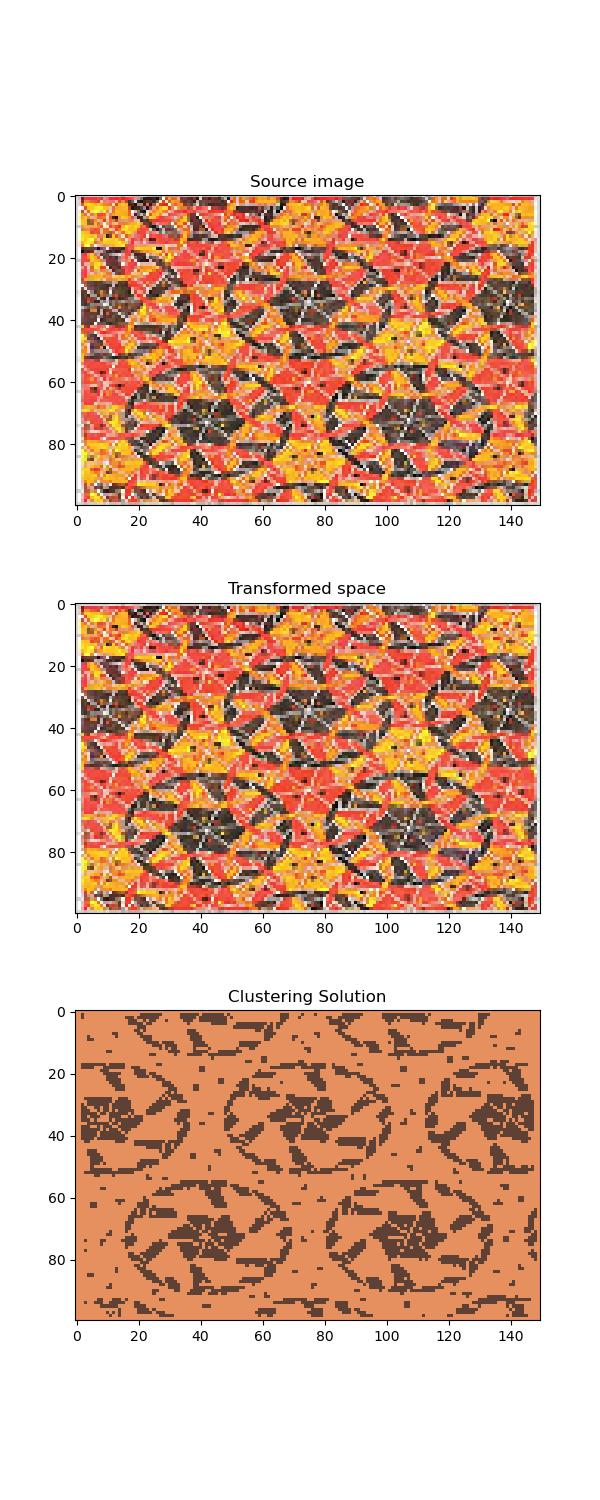
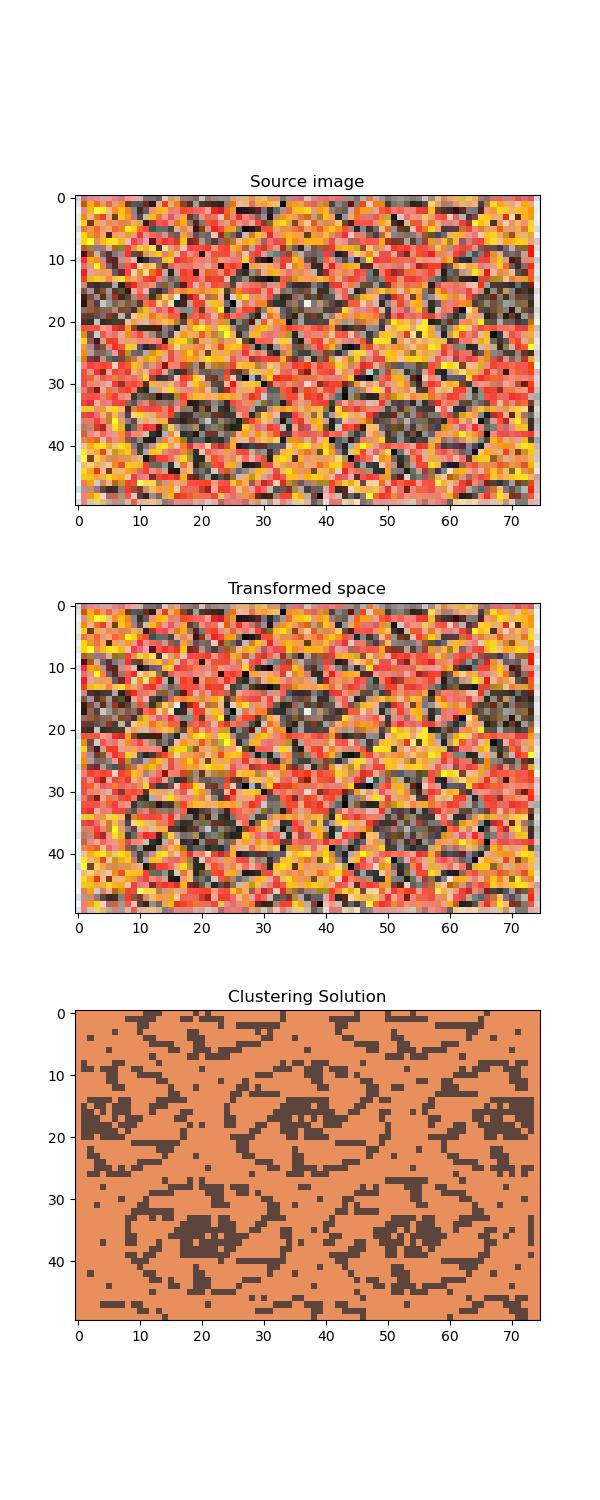
fixes

diff --git a/PrincipledFlexibleFrameworkForFindingAlternativeClusterings/main_principled.py b/PrincipledFlexibleFrameworkForFindingAlternativeClusterings/main_principled.py
@@ -30,7 +30,7 @@ def generate_data(type='4-2-2'):
 		return DATA, k, datatype
 		
 	elif type == 'image':
-		DATA, imRow, imCol, imDim = dataimg('source_images/image.bmp')
+		DATA, imRow, imCol, imDim = dataimg('source_images/image_.bmp')
 		k = 2
 		datatype = 'image'
 		return DATA, k, datatype, imRow, imCol, imDim
@@ -120,12 +120,12 @@ def random_clusters(DATA, X, colors, t):
 
 def image_clusters(DATA, X, colors, t):
 	IMG_DATA = copy.deepcopy(DATA).reshape(imRow, imCol, imDim)
-	IMG_X    = copy.deepcopy(X).reshape(imRow, imCol, imDim)
+	IMG_X    = np.array(copy.deepcopy(X),  dtype='uint8').reshape(imRow, imCol, imDim)
 	
 	f, (ax1, ax2, ax3) = plt.subplots(3,1, sharex=False, sharey=False, figsize=(6, 15))
 	ax1.imshow(IMG_DATA); ax1.set_title('Source image')								# view the original space
 	ax2.imshow(IMG_X)   ; ax2.set_title('Transformed space')						# view the transformed space (to the space orthogonal to the clustering solution)
-	ax3.imshow(np.array(colors).reshape(imRow, imCol, imDim)); ax3.set_title('Clustering Solution')
+	ax3.imshow(np.array(colors, dtype='uint8').reshape(imRow, imCol, imDim)); ax3.set_title('Clustering Solution')
 	
 	plt.savefig(r'results/image_clustering_n_'+str(t+1)+'.jpg')
 	plt.close('all')	
